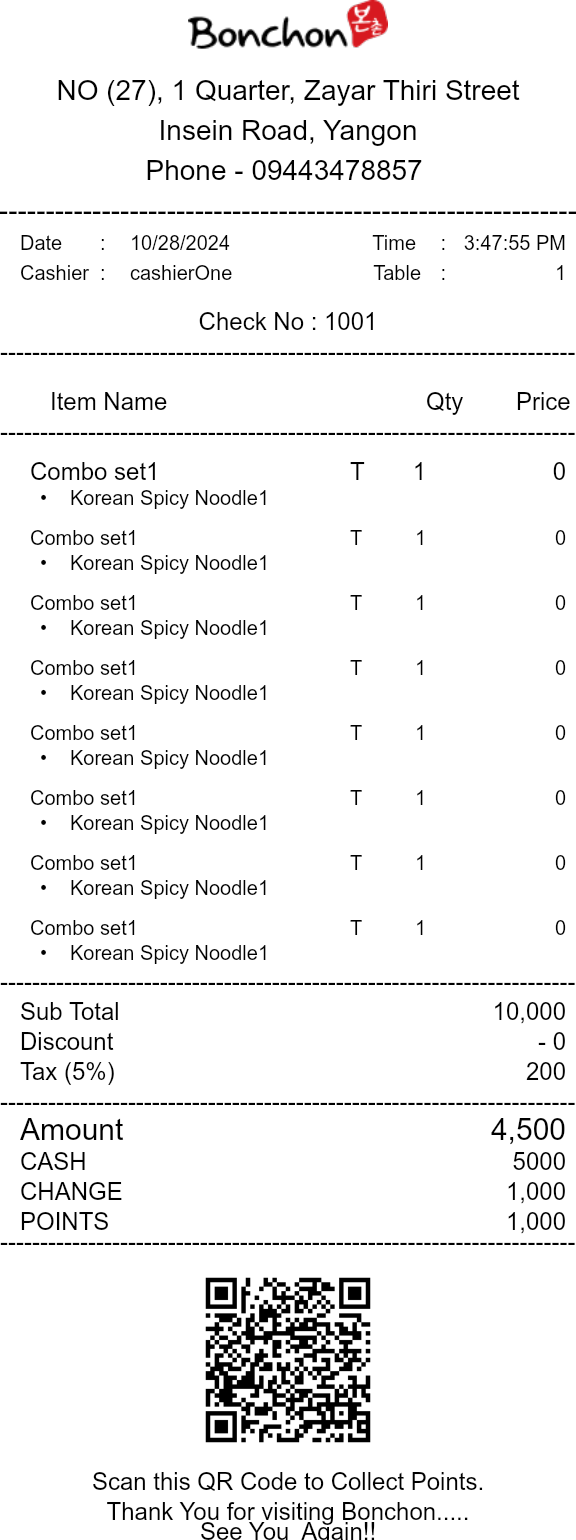
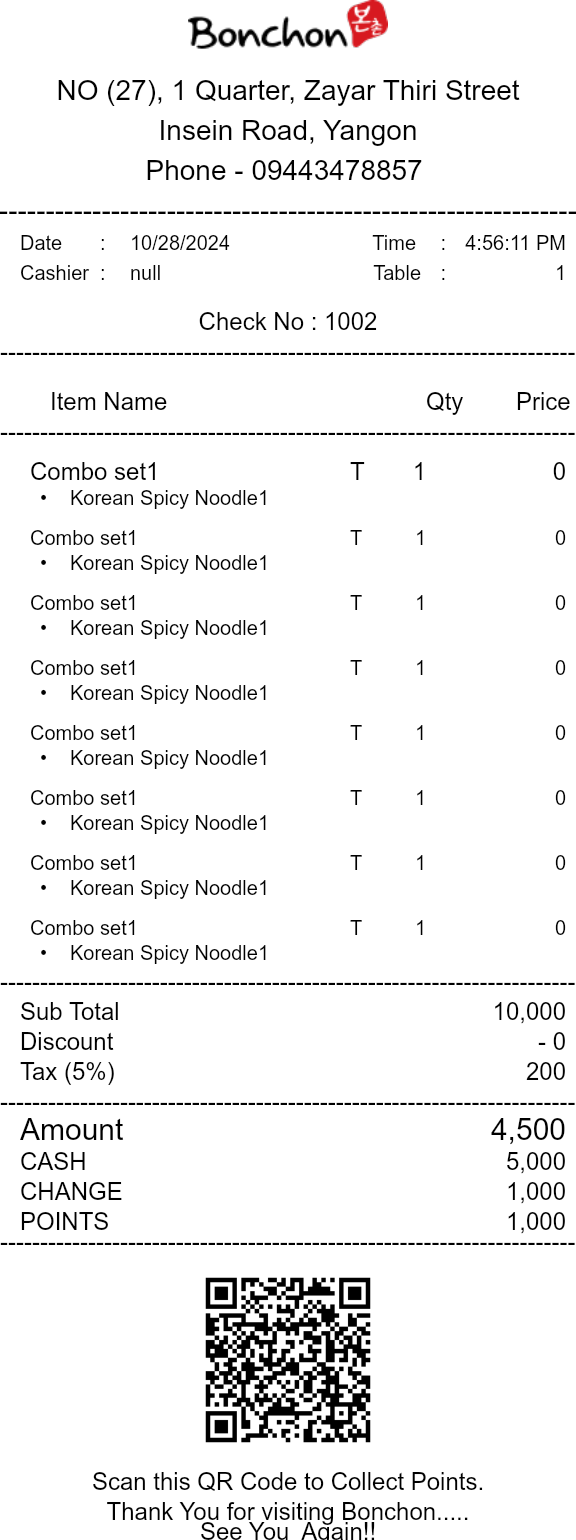
[feature]: change employee id to opening employee id

diff --git a/src/cashierDrawer/cashierDrawerModal.js b/src/cashierDrawer/cashierDrawerModal.js
@@ -2,7 +2,7 @@ const poolQuery = require("../../misc/poolQuery");
 
 
 const createCashierDrawer = async (posIpAddress, opening_cash, employee_id) => {
-    const { rows: cashierDrawerData } = await poolQuery(`INSERT INTO cashier_drawer(opening_cash, employee_id, pos_ip_address) VALUES($1, $2, $3) RETURNING *`, [opening_cash, employee_id, posIpAddress]);
+    const { rows: cashierDrawerData } = await poolQuery(`INSERT INTO cashier_drawer(opening_cash, opening_employee_id, pos_ip_address) VALUES($1, $2, $3) RETURNING *`, [opening_cash, employee_id, posIpAddress]);
     if(cashierDrawerData.length > 0 ){
         console.log(`cashierDrawerModal [createCashierDrawer] cashierDrawerData: `, cashierDrawerData);
         return { cashierDrawerData };
